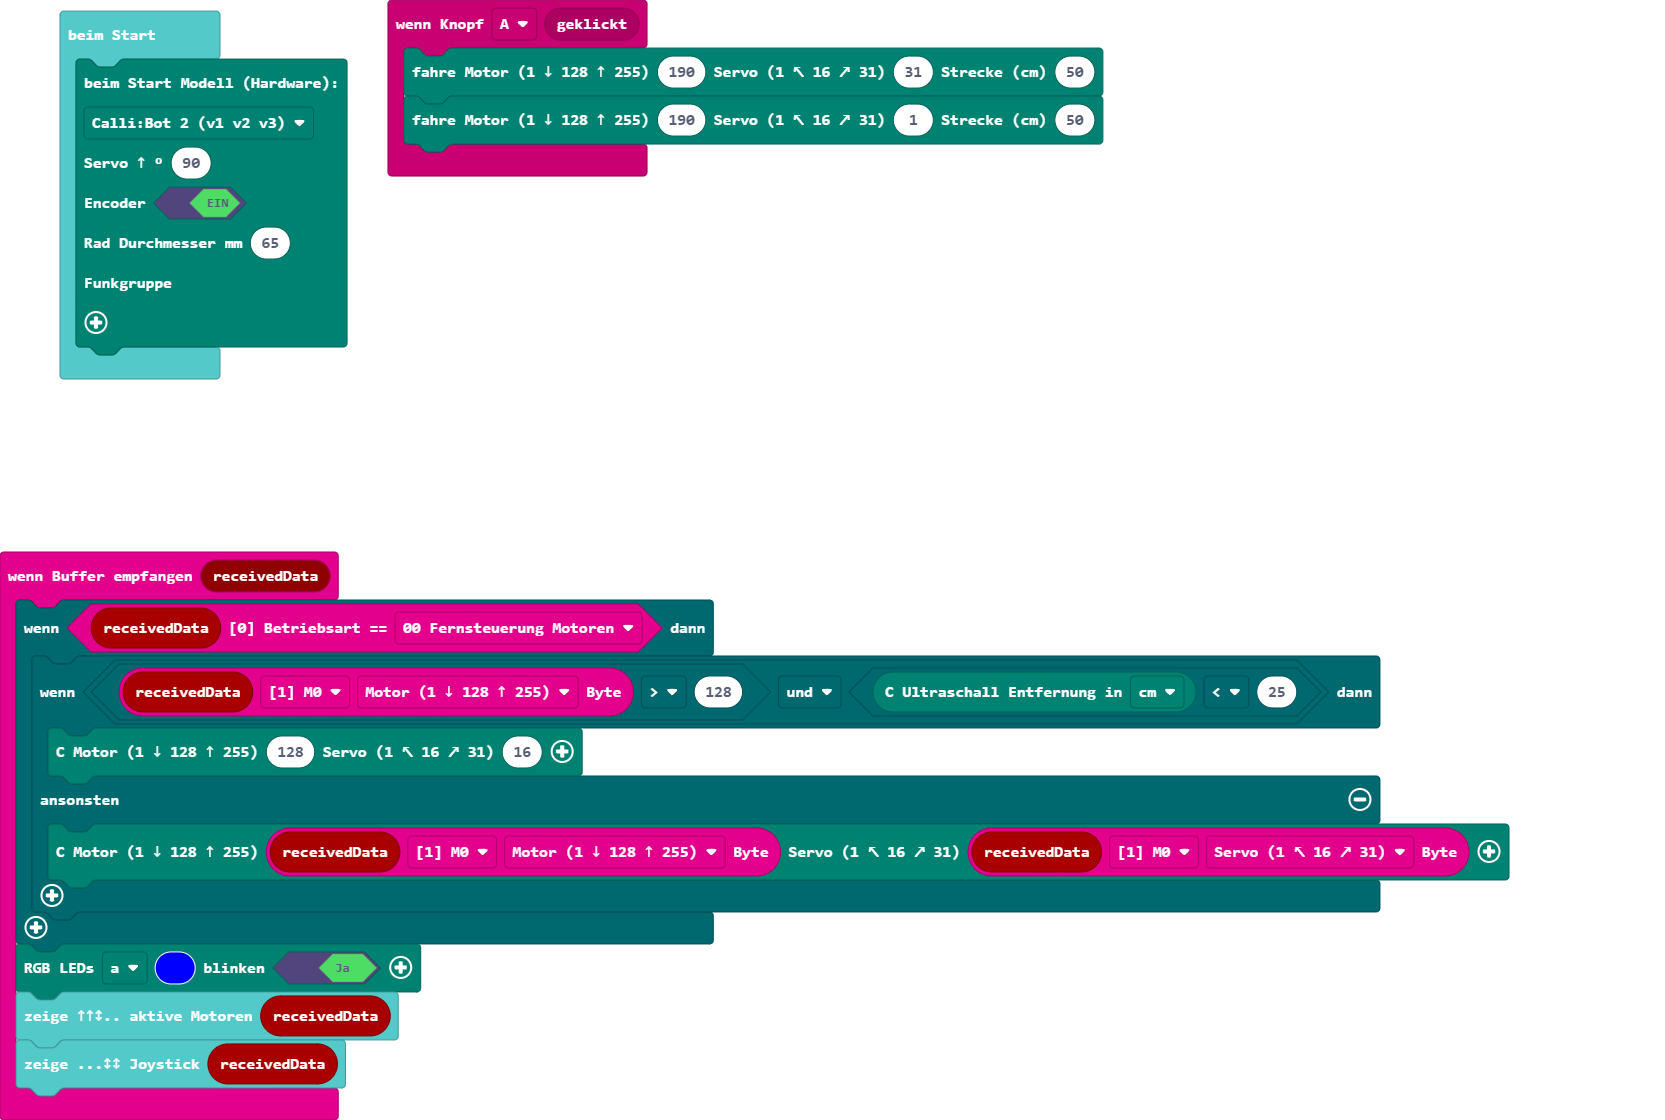
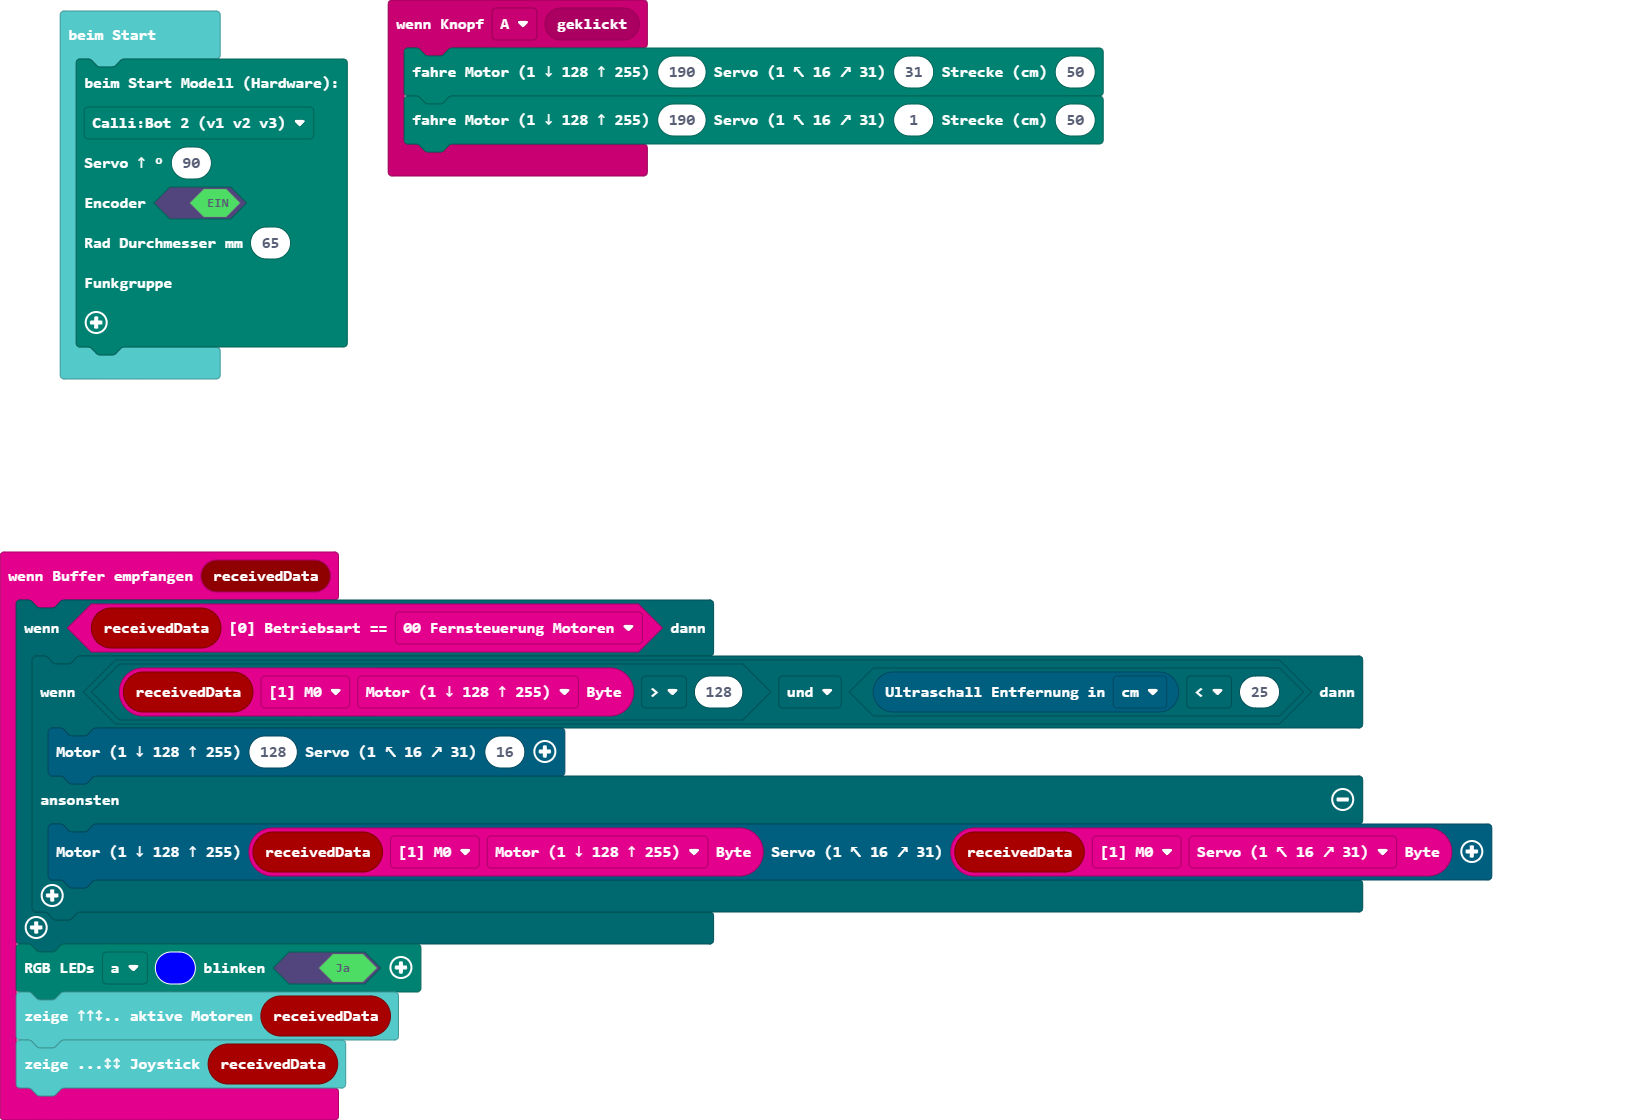
Aktualisiere pxt.json, main.blocks, main.ts

diff --git a/main.ts b/main.ts
@@ -4,10 +4,10 @@ input.onButtonEvent(Button.A, input.buttonEventClick(), function () {
 })
 radio.onReceivedData(function (receivedData) {
     if (radio.isBetriebsart(receivedData, radio.e0Betriebsart.p0)) {
-        if (radio.getByte(receivedData, radio.eBufferPointer.m0, radio.eBufferOffset.b0_Motor) > 128 && receiver.c2UltraschallEntfernung(receiver.eDist.cm) < 25) {
-            receiver.c2motor128lenken16(128, 16)
+        if (radio.getByte(receivedData, radio.eBufferPointer.m0, radio.eBufferOffset.b0_Motor) > 128 && cb2.readUltraschallEntfernung(cb2.eDist.cm) < 25) {
+            cb2.writeMotor128Servo16(128, 16)
         } else {
-            receiver.c2motor128lenken16(radio.getByte(receivedData, radio.eBufferPointer.m0, radio.eBufferOffset.b0_Motor), radio.getByte(receivedData, radio.eBufferPointer.m0, radio.eBufferOffset.b1_Servo))
+            cb2.writeMotor128Servo16(radio.getByte(receivedData, radio.eBufferPointer.m0, radio.eBufferOffset.b0_Motor), radio.getByte(receivedData, radio.eBufferPointer.m0, radio.eBufferOffset.b1_Servo))
         }
     }
     receiver.rgbLEDs(receiver.eRGBled.a, 0x0000ff, true)
